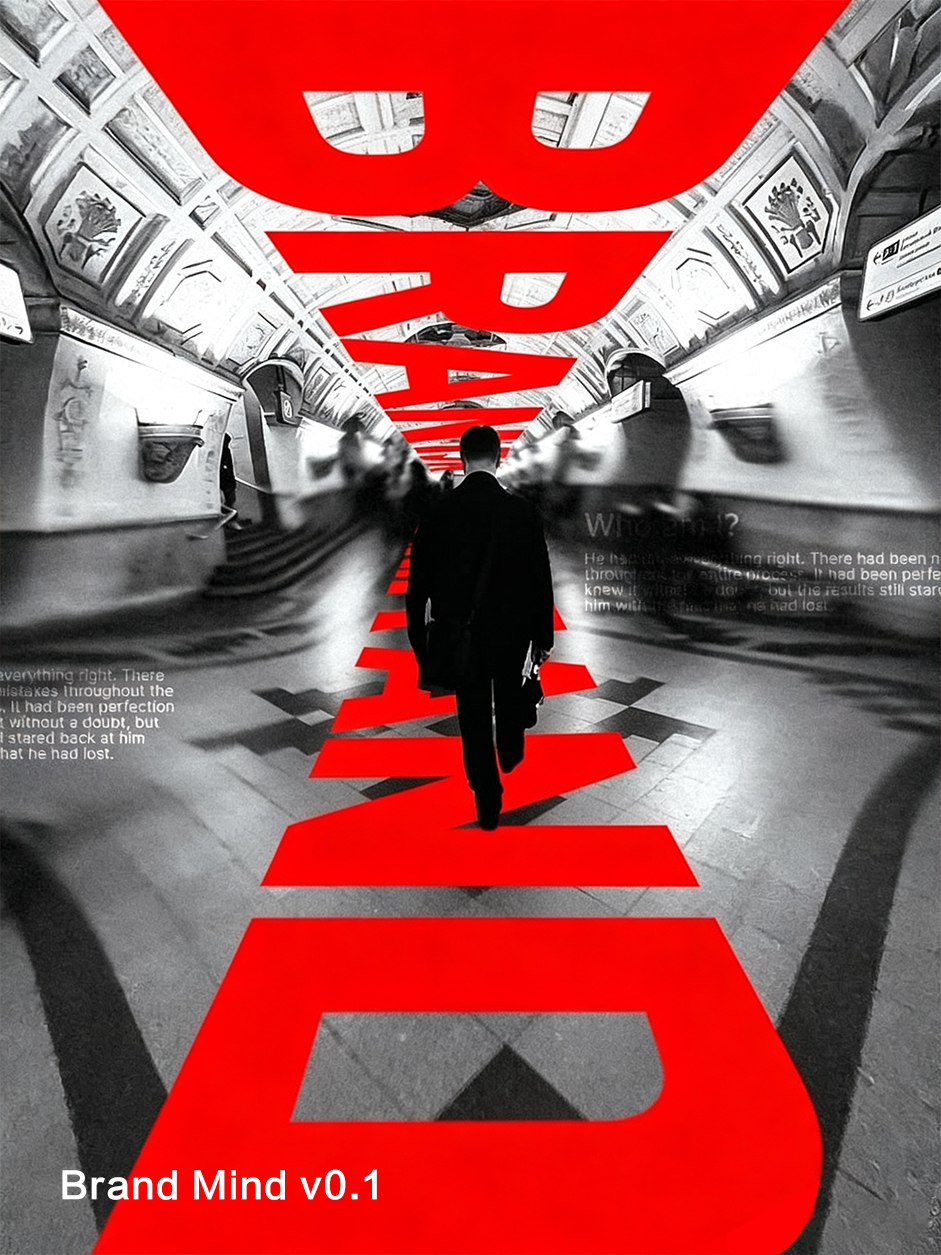
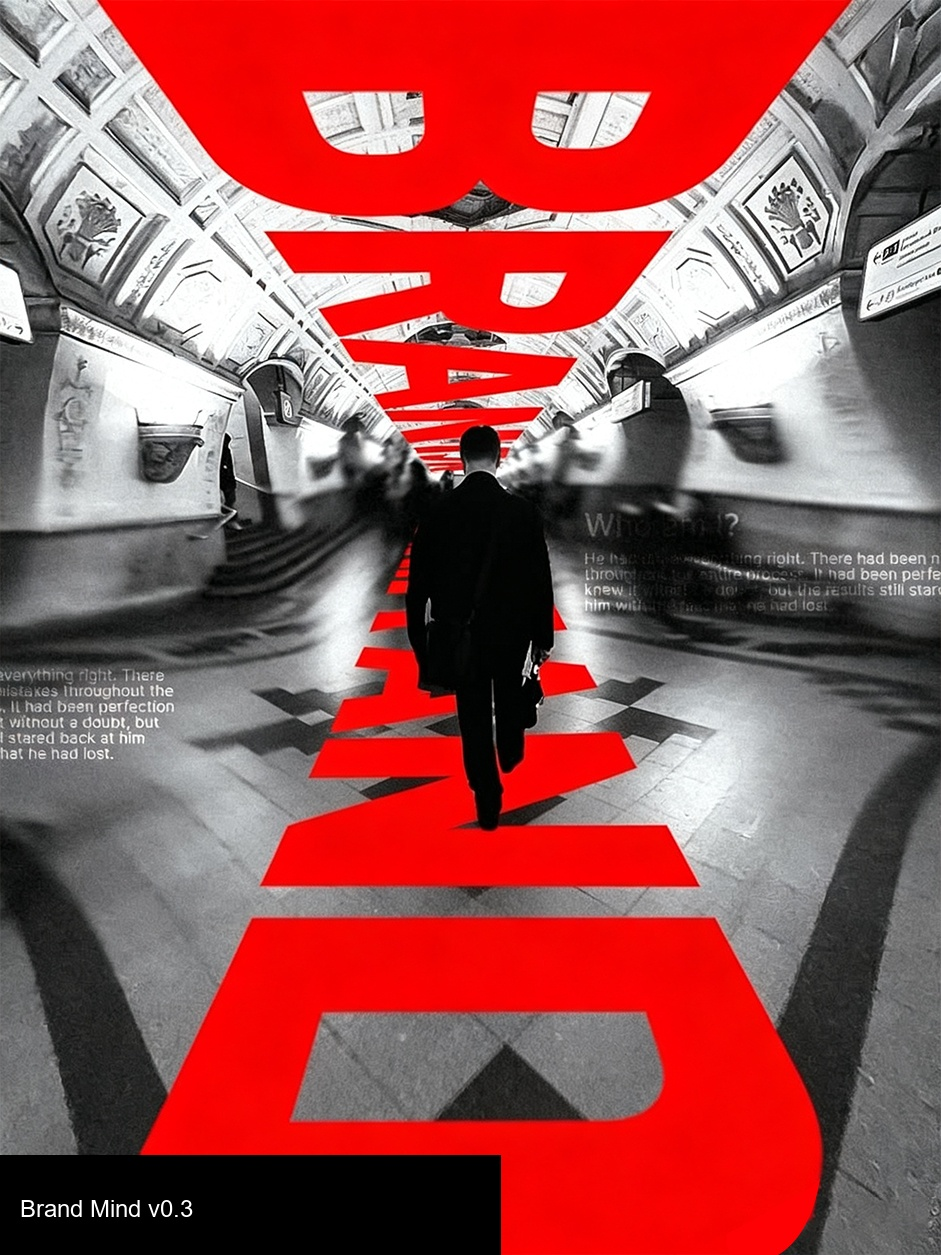
Cover: fullscreen contain, remove BRAND MIND title, v0.3

Changed region(s): [[0.0, 0.9012, 0.5547, 1.0]]

diff --git a/brand-mind/index.html b/brand-mind/index.html
@@ -82,8 +82,9 @@ h3 { font-size: 1.1rem; color: #E8E0D8; margin-bottom: 12px; }
 #cover-screen .cover-img {
   position: absolute; top: 0; left: 0;
   width: 100%; height: 100%;
-  object-fit: cover;
+  object-fit: contain;
   z-index: 0;
+  background: #000;
 }
 #cover-screen .cover-overlay {
   position: relative; z-index: 1;
@@ -388,7 +389,6 @@ h3 { font-size: 1.1rem; color: #E8E0D8; margin-bottom: 12px; }
   <div class="screen active" id="cover-screen">
     <img class="cover-img" src="./img/cover.jpg" alt="Brand Mind">
     <div class="cover-overlay">
-      <div class="title-brand">BRAND MIND</div>
       <div class="title-cn">品牌心智标本馆</div>
       <div class="subtitle">— 收藏的不是品牌，是创造品牌的人 —</div>
       <button class="btn" onclick="startTest()">进 入</button>
